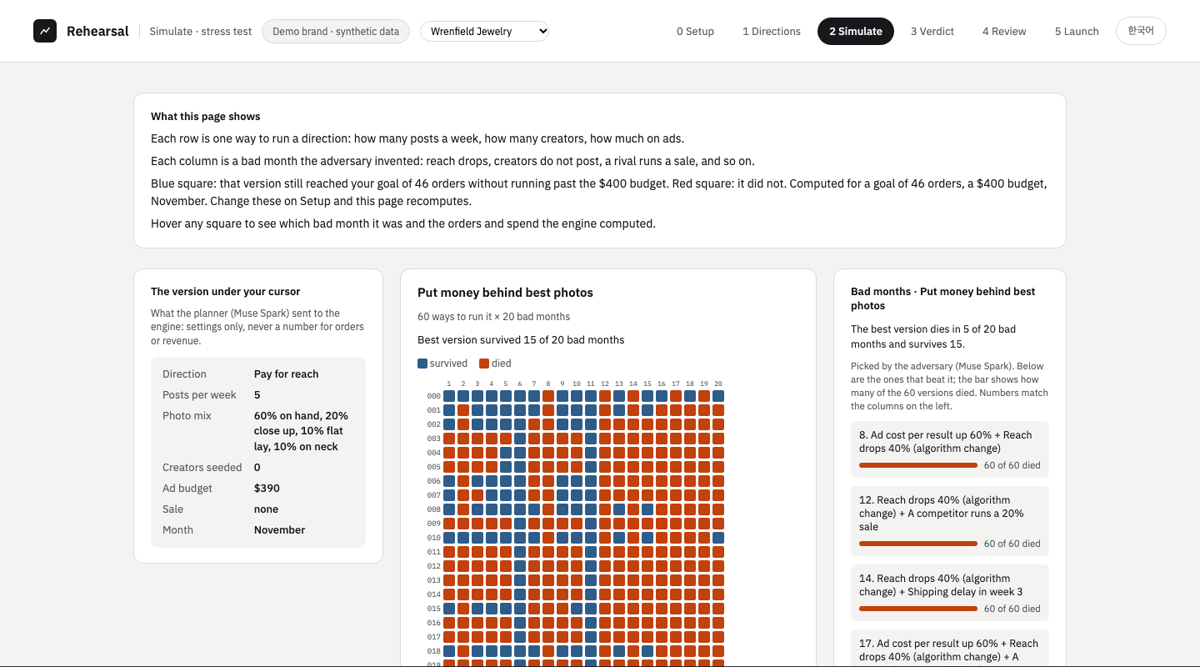
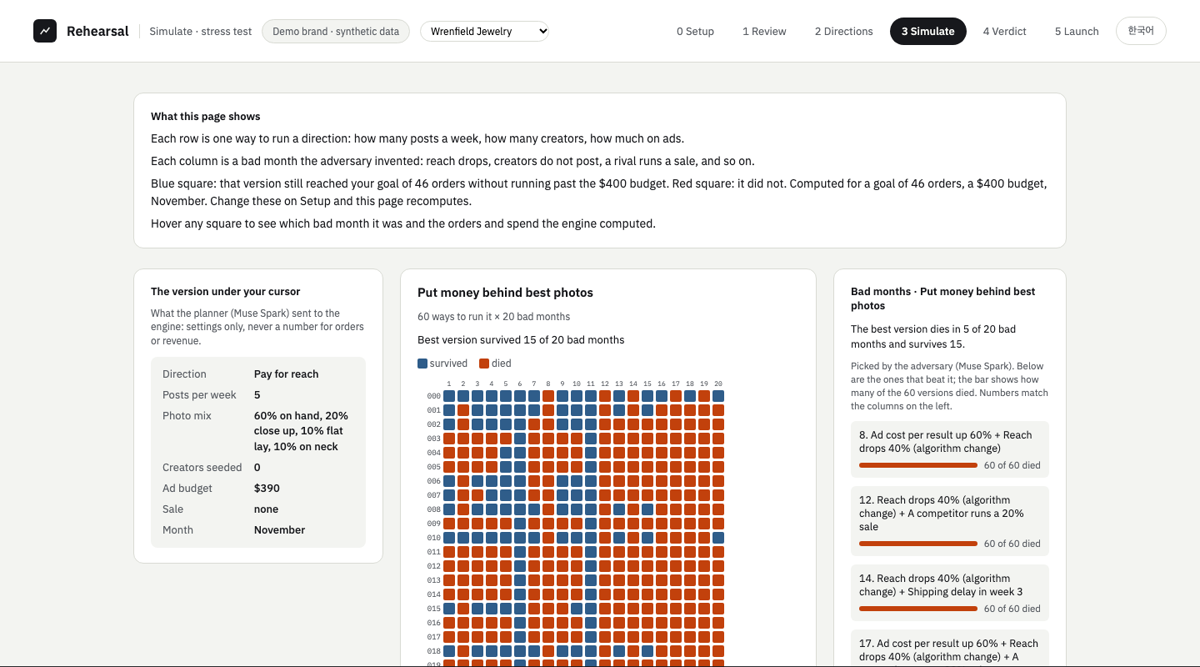
README: review-first flow in the text, screenshots from the final recording, brand table measured after the October review

Changed region(s): [[0.6167, 0.0, 0.8633, 0.09]]

diff --git a/README.md b/README.md
@@ -49,7 +49,7 @@ Numbers in the boxes are the order of one month. Every arrow into the engine car
 
 ## What the screens show
 
-**It tests itself before it tests you.** 13 weeks of the brand's history are hidden, the engine reproduces them, and every hit and miss is on screen. Levers with too little history are marked *not rated* instead of guessed.
+**It tests itself before it tests you.** 13 weeks of the brand's history are hidden, the engine reproduces them, and every hit and miss is on screen. Levers with too little history are marked *not rated* instead of guessed. Then the month that just ended is reviewed (what happened vs what the engine expected) and the rates are re-learned before anything is planned.
 
 ![Setup: hidden weeks, hits and misses](docs/img/trust.png)
 
@@ -65,7 +65,7 @@ Numbers in the boxes are the order of one month. Every arrow into the engine car
 
 ![Launch](docs/img/launch.png)
 
-**A strong month raises the bar instead of flattering a plan.** December demand is 2.2× an average month for jewelry, so the tool offers a month-sized goal; at that goal, just posting survives 1 of 20 bad months.
+**A strong month raises the bar instead of flattering a plan.** Previewing next month: December demand is 2.2× an average month for jewelry, so the tool offers a month-sized goal; at that goal, just posting survives 1 of 20 bad months.
 
 ![December verdict](docs/img/december.png)
 
@@ -86,11 +86,11 @@ A planning assistant that is *not allowed to do the math*. The LLM contributes w
 
 Every brand is synthetic and labelled so on every screen. The header switches between them; each has its own history, mock Meta account, season table and Spark cache.
 
-| Brand | Category | Holdout miss | Rates recovered within 10% | Best plan / baseline (Nov) |
+| Brand | Category | Holdout miss | Rates recovered within 10% | Best plan / baseline (Nov, after the October review, ads + creators picked) |
 |---|---|---|---|---|
-| Wrenfield Jewelry | jewelry | 14.7% (8 of 13 weeks inside) | 7 of 9 | 16 / 5 of 20 |
-| Harbor & Pine Apparel | clothing | 14.8% (8 of 13) | 8 of 9 | 5 / 1 of 20 |
-| Lumen Skincare | beauty | 18.5% (6 of 13) | 9 of 9 | 11 / 1 of 20 |
+| Wrenfield Jewelry | jewelry | 14.7% (8 of 13 weeks inside) | 7 of 9 | 15 / 5 of 20 |
+| Harbor & Pine Apparel | clothing | 14.8% (8 of 13) | 8 of 9 | 20 / 13 of 20 |
+| Lumen Skincare | beauty | 18.5% (6 of 13) | 9 of 9 | 20 / 1 of 20 |
 
 ## What is real, what is not
 
